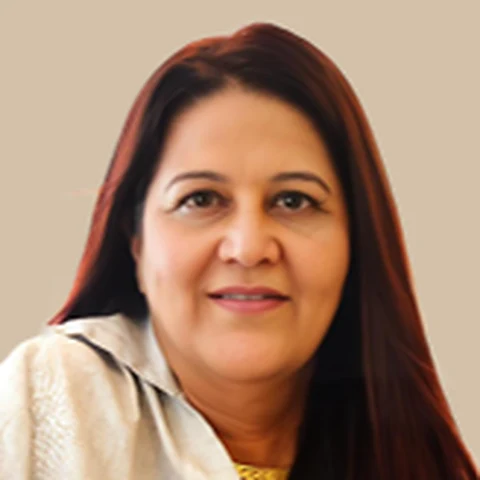
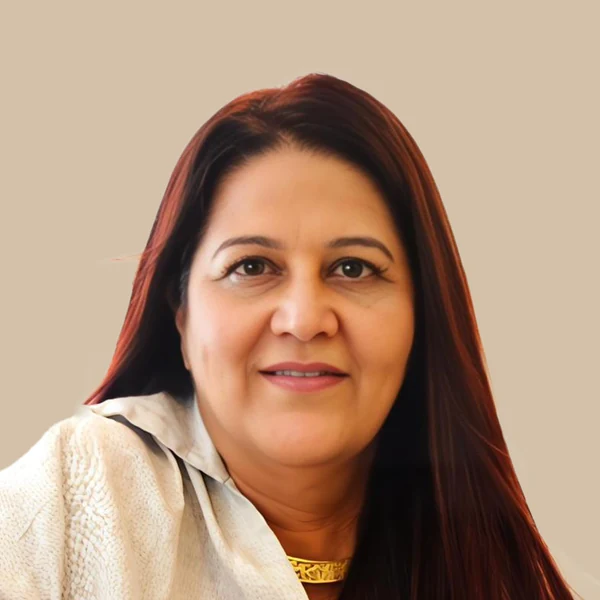
feat: HD team portraits framed to equal head size on beige; ruled 'Services powered by' heading

diff --git a/index.html b/index.html
@@ -16,7 +16,7 @@
   <link rel="preconnect" href="https://fonts.googleapis.com" />
   <link rel="preconnect" href="https://fonts.gstatic.com" crossorigin />
   <link rel="stylesheet" href="https://fonts.googleapis.com/css2?family=Cormorant+Garamond:wght@600&family=Poppins:wght@400;500;600;700&family=Inter:wght@400;500;600;700&family=Sorts+Mill+Goudy&display=swap" />
-  <link rel="stylesheet" href="css/styles.css?v=202611051337" />
+  <link rel="stylesheet" href="css/styles.css?v=202611051350" />
 
   <!-- Enables JS-only states (scroll reveals) without hiding content when JS is unavailable -->
   <script>document.documentElement.classList.add('js');</script>
@@ -687,10 +687,11 @@
     <!-- ============================== Prologue (powered-by area, prologue.co.in palette) ============================== -->
     <section class="section prologue" id="prologue" aria-labelledby="prologue-title">
       <div class="container">
-        <p class="prologue__eyebrow" data-reveal>Services powered by</p>
+        <h2 class="section-title section-title--ruled" id="prologue-title" data-reveal><span>Services powered by</span></h2>
+        <p class="services__hint" data-reveal>Select a service to see what’s included.</p>
         <div class="prologue__panel" data-reveal>
           <header class="prologue__head">
-            <h2 class="prologue__title" id="prologue-title"><a href="https://www.prologue.co.in/" target="_blank" rel="noopener" aria-label="Prologue by Earlyseed Ventures (opens prologue.co.in)"><img src="assets/prologue/prologue-by-esv.webp" alt="Prologue by Earlyseed Ventures" width="280" height="162" loading="lazy" decoding="async" /></a></h2>
+            <div class="prologue__title"><a href="https://www.prologue.co.in/" target="_blank" rel="noopener" aria-label="Prologue by Earlyseed Ventures (opens prologue.co.in)"><img src="assets/prologue/prologue-by-esv.webp" alt="Prologue by Earlyseed Ventures" width="280" height="162" loading="lazy" decoding="async" /></a></div>
             <p class="prologue__sub">We write the story before it begins: documentation, financial rigour and mentorship that make founders truly investment-ready.</p>
           </header>
 
@@ -827,6 +828,6 @@
     </div>
   </footer>
 
-  <script src="js/main.js?v=202611051337" defer></script>
+  <script src="js/main.js?v=202611051350" defer></script>
 </body>
 </html>

diff --git a/team.html b/team.html
@@ -16,7 +16,7 @@
   <link rel="preconnect" href="https://fonts.googleapis.com" />
   <link rel="preconnect" href="https://fonts.gstatic.com" crossorigin />
   <link rel="stylesheet" href="https://fonts.googleapis.com/css2?family=Cormorant+Garamond:wght@600&family=Poppins:wght@400;500;600;700&family=Inter:wght@400;500;600;700&family=Sorts+Mill+Goudy&display=swap" />
-  <link rel="stylesheet" href="css/styles.css?v=202611051337" />
+  <link rel="stylesheet" href="css/styles.css?v=202611051350" />
 
   <!-- Enables JS-only states (scroll reveals) without hiding content when JS is unavailable -->
   <script>document.documentElement.classList.add('js');</script>
@@ -273,6 +273,6 @@
     </div>
   </footer>
 
-  <script src="js/main.js?v=202611051337" defer></script>
+  <script src="js/main.js?v=202611051350" defer></script>
 </body>
 </html>

diff --git a/css/styles.css b/css/styles.css
@@ -1100,6 +1100,7 @@ main > section:not(.hero) { position: relative; z-index: 1; }
   font-family: var(--pl-font);
 }
 .prologue__head { display: flex; flex-direction: column; align-items: center; }
+.prologue__panel { margin-top: 48px; }
 .prologue__eyebrow {
   margin-bottom: 18px; text-align: center;
   font: 600 0.8125rem/1 "Poppins", var(--font-sans); letter-spacing: 0.16em; text-transform: uppercase; color: #4361EE;

diff --git a/tools/team/photos.py b/tools/team/photos.py
@@ -1,0 +1,84 @@
+"""Build the team portraits from the HD cut-outs in Founder Photos/ (gitignored).
+
+    python tools/team/photos.py
+
+Each cut-out is transparent. We find the head in its alpha silhouette (top of the hair
+down to the narrowest point of the neck), then scale and crop a square so every head
+fills the same share of the frame, and composite it on the brand beige.
+"""
+from pathlib import Path
+from PIL import Image
+
+ROOT = Path(__file__).resolve().parents[2]
+SRC = ROOT / "Founder Photos"
+OUT = ROOT / "assets" / "team"
+BEIGE = (211, 193, 169)          # --sand
+SIZE = 600                       # exported square (displayed at up to ~280px, ~2x)
+HEAD = 0.50                      # head height (crown to neck) as a share of the frame
+TOP = 0.13                       # space above the crown
+
+PEOPLE = [
+    ("MG's Pic_nobg.png", "monica-gupta"),
+    ("Manan_nobg.png", "manan-patel"),
+    ("Nimit Shah Photo New Nobg.png", "nimit-shah"),
+    ("Rahul_new_nobg.png", "rahul-hingmire"),
+    ("Sudhir_nobg.png", "sudhir-mehta"),
+]
+# Fine-tuning per person if the silhouette misreads (hair volume etc.): scale multiplier, x/y nudge (share of frame)
+TUNE = {"rahul-hingmire": (0.92, 0.0, 0.0)}
+# Where the chin/neck sits, as a share of the height below the crown, when the silhouette can't show it
+NECK = {"monica-gupta": 0.31}
+
+
+def head_box(im, slug):
+    a = im.getchannel("A")
+    w, h = a.size
+    scale = 600 / h                                  # measure on a small copy
+    small = a.resize((max(1, int(w * scale)), 600))
+    sw, sh = small.size
+    px = small.load()
+    rows = []
+    for y in range(sh):
+        xs = [x for x in range(sw) if px[x, y] > 128]
+        rows.append((xs[0], xs[-1]) if xs else None)
+    top = next(y for y, r in enumerate(rows) if r and r[1] - r[0] > sw * 0.04)   # skip stray specks above the crown
+    # Walk down from the crown: the head widens, the neck narrows (a dip below the head's
+    # width), then the shoulders jump out. Neck = the narrowest row of that dip.
+    span = lambda r: (r[1] - r[0]) if r else 0
+    head_max, neck, neck_span, in_dip = 0, None, None, False
+    for y in range(top, sh):
+        sp = span(rows[y])
+        if not in_dip:
+            head_max = max(head_max, sp)
+            if head_max and y - top > head_max * 0.9 and sp < head_max * 0.85:   # a neck sits at least a head-width down
+                in_dip, neck, neck_span = True, y, sp
+        else:
+            if sp < neck_span:
+                neck, neck_span = y, sp
+            if sp > neck_span * 1.3:
+                break
+    if neck is None or slug in NECK:                  # long hair can hide the neck: use the measured share instead
+        neck = top + (sh - top) * NECK.get(slug, 0.5)
+    cx_row = rows[top + int((neck - top) * 0.55)]
+    return top / scale, neck / scale, (sum(cx_row) / 2) / scale
+
+
+def build(src, slug):
+    im = Image.open(SRC / src).convert("RGBA")
+    top, neck, cx = head_box(im, slug)
+    k, dx, dy = TUNE.get(slug, (1.0, 0.0, 0.0))
+    head_h = (neck - top) / k
+    s = (SIZE * HEAD) / head_h                        # px per source px
+    im = im.resize((round(im.width * s), round(im.height * s)), Image.LANCZOS)
+    top, cx = top * s, cx * s
+    left = cx - SIZE / 2 - dx * SIZE
+    upper = top - SIZE * TOP - dy * SIZE
+    canvas = Image.new("RGBA", (SIZE, SIZE), BEIGE + (255,))
+    canvas.paste(im, (round(-left), round(-upper)), im)
+    canvas.convert("RGB").save(OUT / f"{slug}.webp", quality=88, method=6)
+    print(slug, f"head {neck - top:.0f}px", f"scale {s:.3f}")
+
+
+if __name__ == "__main__":
+    for src, slug in PEOPLE:
+        build(src, slug)
